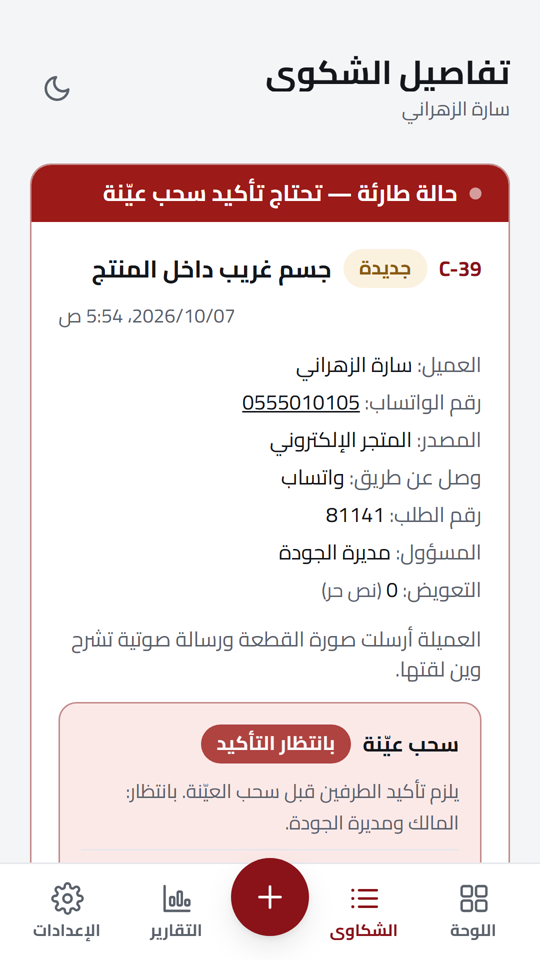
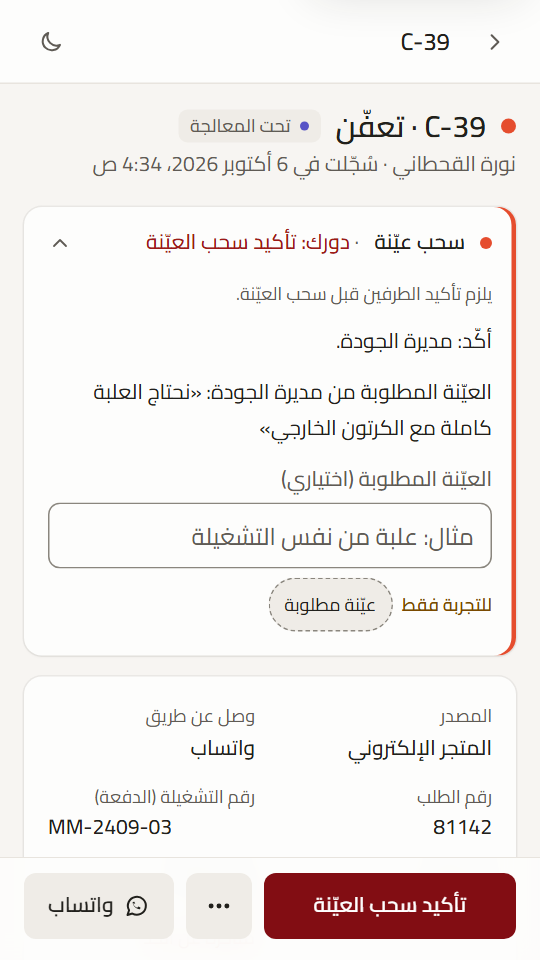
New screenshots and feature notes for the October redesign
Dashboard, work list with emergency, late and within-time groups, compensation tabs, emergency close confirmation, attachment content checks, phone layout down to 320 px.

diff --git a/README.ar.md b/README.ar.md
@@ -18,7 +18,7 @@
 
 <div dir="rtl">
 
-للتجربة: افتح النسخة التجريبية واختر دورًا من شاشة الدخول: المالك، مديرة الجودة، مدير المصنع، أو خدمة العملاء. كل دور له شاشات مختلفة. كل الأسماء والأرقام والطلبات في النسخة التجريبية وهمية.
+للتجربة: افتح النسخة التجريبية واختر دورًا من شاشة الدخول: المالك، مديرة الجودة، مدير المصنع، أو خدمة العملاء. كل دور له شاشات مختلفة. كل الأسماء والأرقام والطلبات في النسخة التجريبية وهمية، وكل نموذج فيه أزرار تعبّيه ببيانات تجريبية بضغطة.
 
 تطوير: **محمد التونسي**، [LinkedIn](https://www.linkedin.com/in/mohammed-altounsi/)
 
@@ -53,13 +53,19 @@
 - كل شكوى تُسند لفريق الجودة أو للمصنع حسب نوع المشكلة.
 - المسؤول يوصله إيميل فيه رقم الشكوى.
 
+### لوحة المتابعة وقائمة العمل
+- اللوحة تفتح على الحالات الطارئة المفتوحة، وأربعة أرقام، والقرارات اللي تنتظرك، ورسم بياني لآخر 30 يوم. كل رقم يفتح القائمة اللي يعدّها.
+- قائمة عمل وحدة لكل دور، مقسومة: طوارئ، ومتأخرة (فاتت 72 ساعة)، وضمن الحد. والطوارئ والمنتهية لها تبويبات خاصة.
+- داخل الشكوى، السابق والتالي يمشون على نفس القائمة اللي فتحتها منها.
+
 ### الحالات الطارئة
 - الشكوى الطارئة تروح دائمًا لمديرة الجودة، وتظهر بالأحمر أعلى كل شاشة.
 - سحب عيّنة المنتج يحتاج موافقة شخصين، وسجل الموافقة ما ينعدل.
+- إغلاق الحالة الطارئة يحتاج كتابة كلمة «تأكيد».
 
 ### التعويضات
 - كل شكوى يتسجّل معها نوع التعويض ومبلغه وملاحظة.
-- قائمة بالتعويضات اللي ما انصرفت.
+- تبويبين: «بانتظار التعويض» و«مسجّلة»، وكل شكوى في بطاقة.
 - تقرير تكلفة حسب الشهر والمنتج والتشغيلة.
 
 ### التقارير
@@ -75,7 +81,8 @@
 - عمليات الدخول تتسجّل، والحساب يتوقف مؤقتًا بعد تكرار كلمة مرور غلط.
 - الطلبات توصل من سلة عبر الـ Webhooks، ومهمة ليلية تسحب أي طلب فات.
 - فحص الحالة يعرض وضع الربط مع سلة والمهمة الليلية ومساحة التخزين.
-- مصمم للجوال أولًا، وفيه وضع ليلي.
+- الصور وملفات PDF تنفحص بمحتواها، مو باسم الملف بس.
+- مصمم للجوال أولًا: يشتغل على شاشة عرضها 320 بكسل، والأزرار ما تقل عن 44 بكسل، والصفحات تدخل من الجهة اللي جيت منها. وفيه وضع ليلي، وتنقّل واضح بلوحة المفاتيح.
 
 ## التقنيات
 

diff --git a/README.md b/README.md
@@ -12,7 +12,7 @@ A web app for logging and handling customer complaints for online stores on Sall
 
 </div>
 
-To try it, open the demo and pick a role on the login screen: owner, quality manager, factory manager or customer service. Each role sees different screens. All names, phone numbers and orders in the demo are made up.
+To try it, open the demo and pick a role on the login screen: owner, quality manager, factory manager or customer service. Each role sees different screens. All names, phone numbers and orders in the demo are made up. Every form has sample-data chips that fill it in one tap.
 
 Built by **Mohammed Altounsi**, [LinkedIn](https://www.linkedin.com/in/mohammed-altounsi/).
 
@@ -47,13 +47,19 @@ Built by **Mohammed Altounsi**, [LinkedIn](https://www.linkedin.com/in/mohammed-
 - Each complaint is assigned to the quality team or the factory based on the issue type.
 - The assigned manager gets an email with the complaint number.
 
+### Dashboard and work list
+- The dashboard opens with open emergencies, four counts, the decisions waiting for you and a 30-day chart. Each count opens the list it counts.
+- One work list per role, grouped into emergency, late (past 72 hours) and within time. Emergencies and solved complaints have their own tabs.
+- On a complaint, back and next follow the list you opened it from.
+
 ### Emergencies
 - Emergency complaints always go to the quality manager and are shown in red at the top of each screen.
 - Collecting a product sample needs approval from two people. The approval record can't be edited.
+- Closing an emergency needs the word «تأكيد» typed in to confirm.
 
 ### Compensation
 - Each complaint records the compensation type, amount and a note.
-- A list shows compensation that hasn't been paid yet.
+- Two tabs: awaiting a decision and recorded, with one complaint per card.
 - A cost report breaks compensation down by month, product and batch.
 
 ### Reports
@@ -69,7 +75,8 @@ Built by **Mohammed Altounsi**, [LinkedIn](https://www.linkedin.com/in/mohammed-
 - Sign-ins are logged. An account is paused after repeated wrong passwords.
 - Orders arrive from Salla through webhooks, and a nightly job pulls any that were missed.
 - A health check reports the state of the Salla connection, the nightly job and storage use.
-- Built for phones first. Dark mode.
+- Uploaded images and PDFs are checked by their content, not only their file name.
+- Built for phones first: works down to 320 px wide, tap targets of at least 44 px, and pages slide in from the side you came from. Dark mode, a skip link and visible keyboard focus.
 
 ## Tech
 
